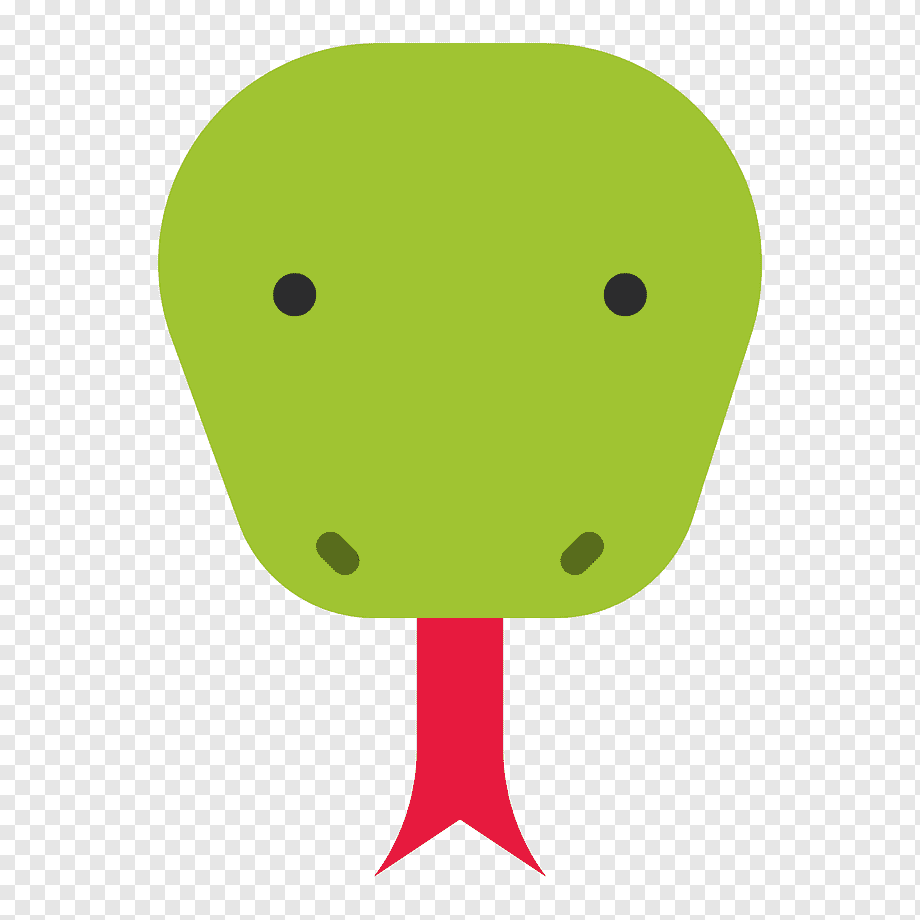
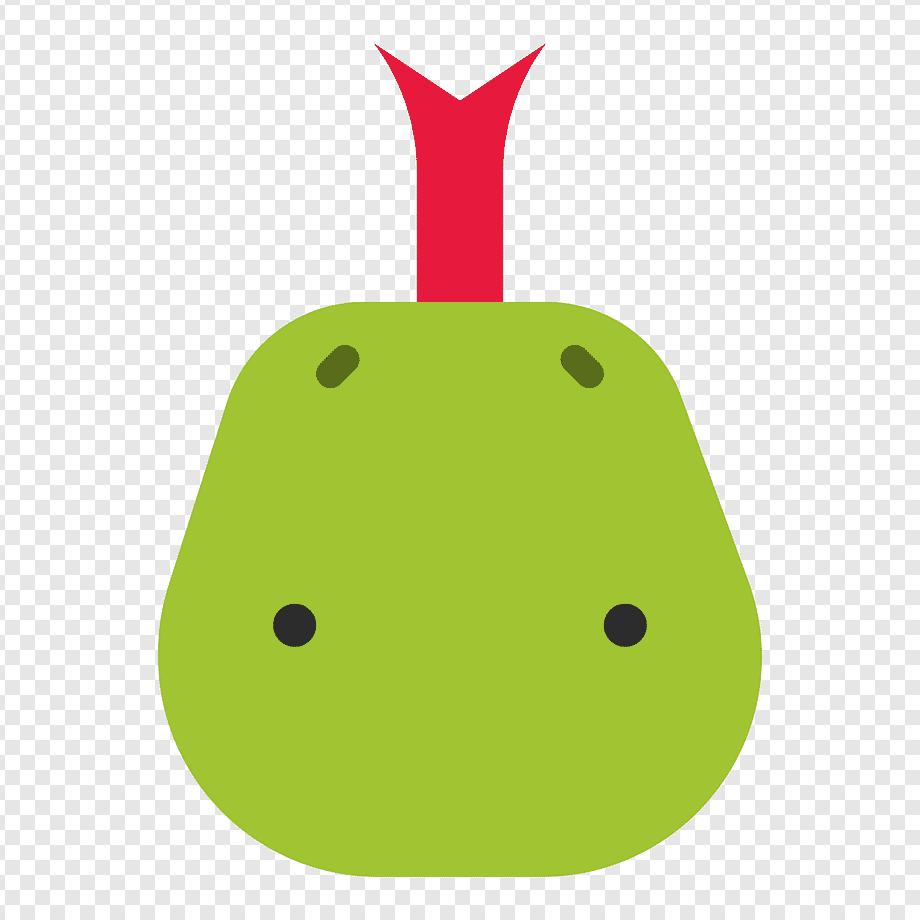
Orientation headSnake done

diff --git a/src/App.js b/src/App.js
@@ -139,10 +139,12 @@ const { state, dispatch } = useGlobalContext();
     }
   }
 
-  function className(col, row) {
+  const getClassName = (col, row) => {
     let className = "";
+    const headDirection = direction.toLowerCase();
+    
     if (isHeadSnake(col, row)) {
-        className += "snake-head";
+        className += `snake-head snake-head-${headDirection}`;
     } else if (bodySnake(col, row)) {
         className += "snake";
     } else if (isFoodEaten(col, row)) {
@@ -177,6 +179,7 @@ const { state, dispatch } = useGlobalContext();
       />
       <Container>
         <div className="game-board-container">
+            <div>{direction}</div>
           {pause && (
             <div className="pause-overlay">
               <span className="pause-icon" onClick={() => setPause(!pause)}>
@@ -195,7 +198,7 @@ const { state, dispatch } = useGlobalContext();
               Array.from({ length: mapSize }).map((_, col) => (
                 <div
                   key={`${row}-${col}`}
-                  className={`cell ${className(col, row)}`}
+                  className={`cell ${getClassName(col, row)}`}
                 />
               ))
             )}

diff --git a/src/App.css b/src/App.css
@@ -62,13 +62,25 @@
     background-repeat: no-repeat;
     background-position: center;
 }
+.snake-head.snake-head-up {
+    transform: rotate(0deg);
+}
+.snake-head.snake-head-right {
+    transform: rotate(90deg);
+}
+.snake-head.snake-head-down {
+    transform: rotate(180deg);
+}
+.snake-head.snake-head-left {
+    transform: rotate(270deg);
+}
 .food {
     /* background-image: url('./assets/apple.png'); */
-    /* background-image: var(--food-img); */
+    background-image: var(--food-img);
     background-size: contain;
     background-repeat: no-repeat;
     background-position: center;
-    background-color: var(--food-no-img-color);
+    /* background-color: var(--food-no-img-color); */
 
 }
 
